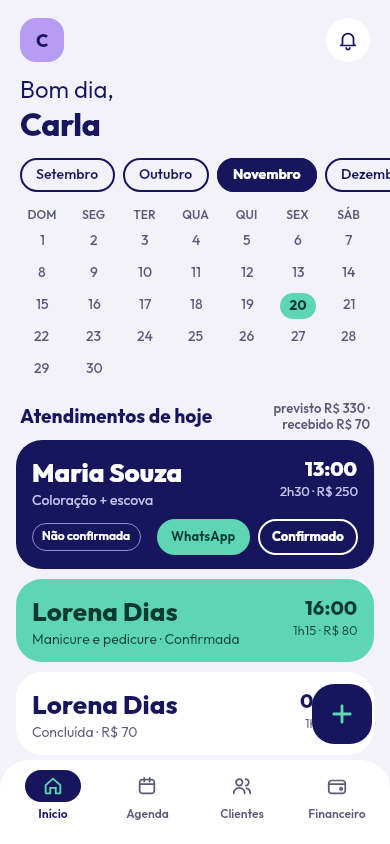
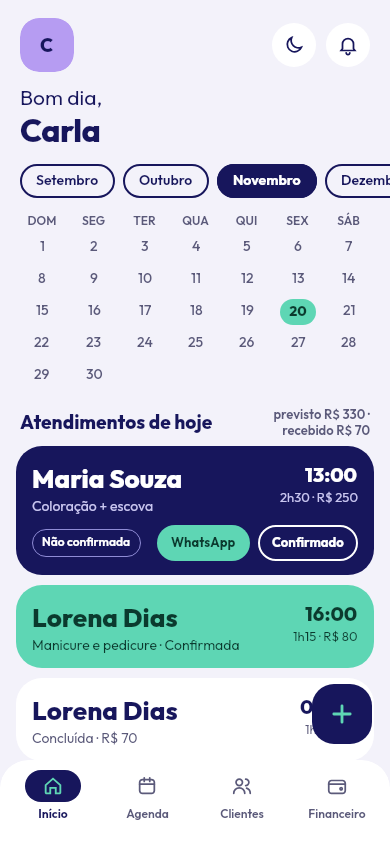
docs: capturas do Início com sol/lua e foto do perfil; passos de aceite
Claude-Session: https://claude.ai/code/session_01H17imPAXU7p47soZyuDVQv

Changed region(s): [[0.0308, 0.0, 1.0, 0.8934], [0.8615, 0.0308, 0.9231, 0.0616], [0.7385, 0.0308, 0.7692, 0.0616]]

diff --git a/docs/aceite/fase-2a.md b/docs/aceite/fase-2a.md
@@ -40,3 +40,10 @@ concluir com valor final, desmarcar, reabrir, desfazer), o Início com o dia do 
 15. **Permissões.** Ajustes do Android › Apps › LOMA › Permissões: continua "Nenhuma permissão".
 
 Anote qualquer passo que não aconteceu como descrito (número do passo e o que apareceu).
+
+## Extra (20/11): foto do perfil e botão de tema
+
+16. **Ajustes → Perfil → Escolher foto.** Escolha uma foto. Ela aparece na hora em Ajustes e, ao voltar, no quadrado do canto superior esquerdo do Início.
+17. **Remover foto** em Ajustes: volta a inicial do nome.
+18. **Início → botão ao lado do sininho.** No tema azul aparece o sol: tocar deixa o app claro (ícones da barra de status ficam escuros). No claro aparece a lua: tocar volta ao azul.
+19. Feche o app e abra de novo: o tema escolhido continua.
